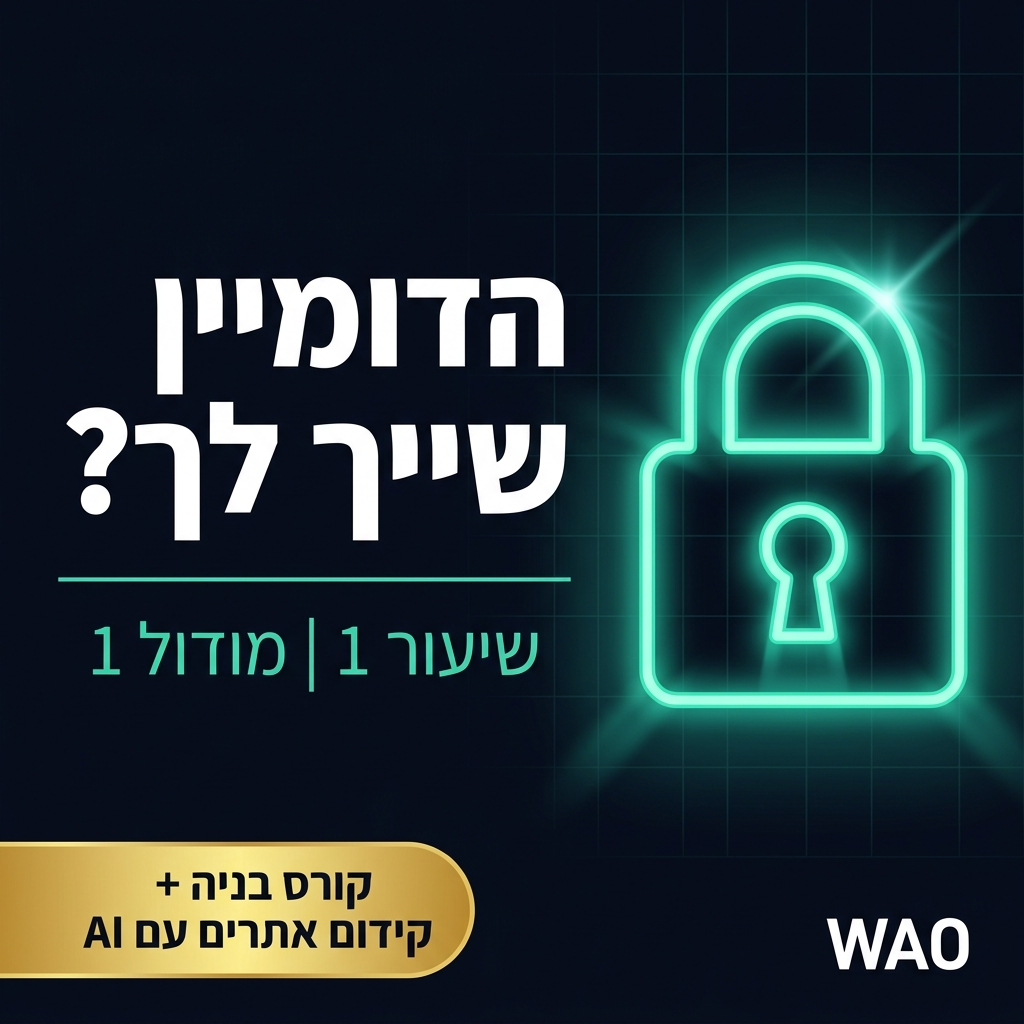
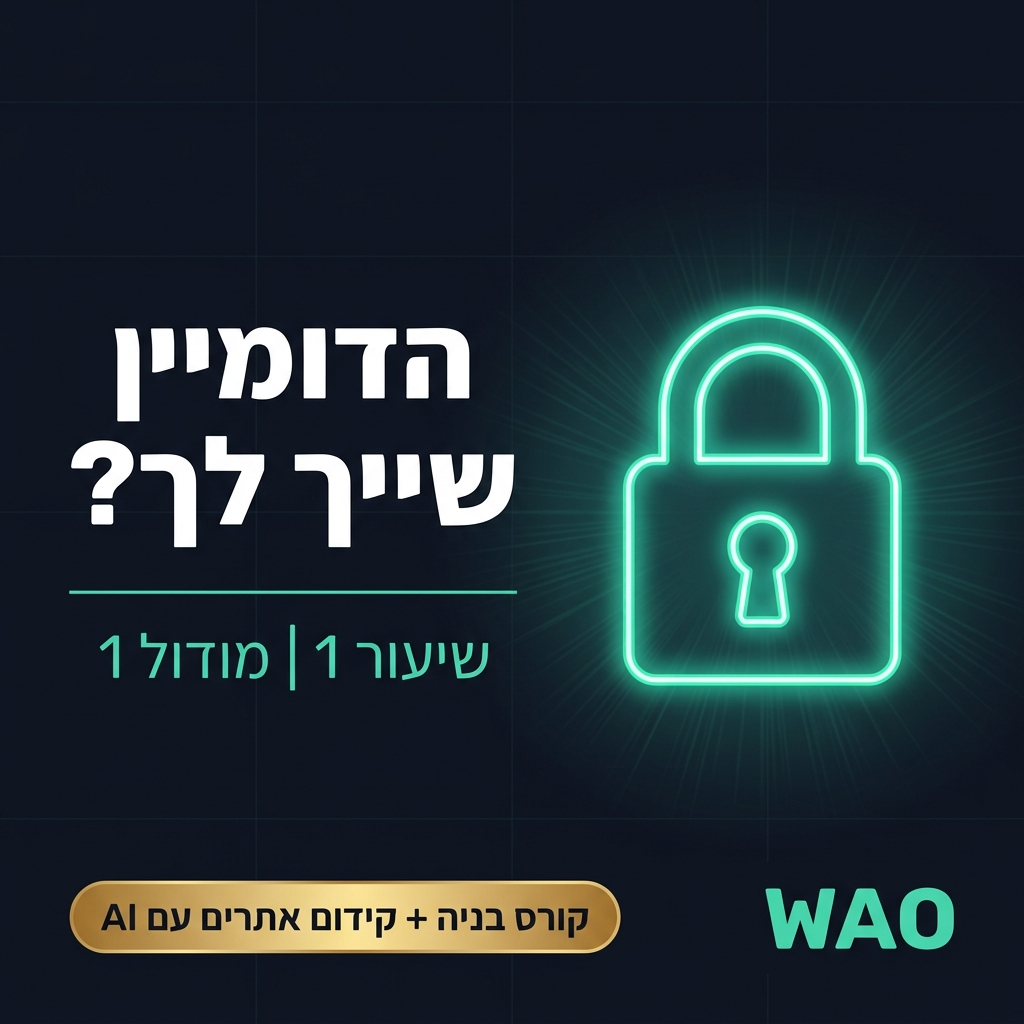
slides: fix overcrowded slides, teal WAO branding, L1-2 thumbnail
- L1-1: trim slides 2,3,6,7 to max 4 bullets; WAO heading -> h4 (teal)
- L1-2: trim slides 2,4; replace shituk->plain text; simplify kriteryonim label; WAO h4 (teal)
- wao-rtl.css: add h4 rule (teal #4ae3b5) for WAO title branding
- Thumbnails: AI-generated, teal WAO, consistent brand for lessons 1+2

Changed region(s): [[0.0625, 0.1875, 1.0, 0.7812], [0.0, 0.8125, 0.625, 0.9688], [0.75, 0.8438, 0.9688, 0.9688]]

diff --git a/docs/scripts/website-course/wao-rtl.css b/docs/scripts/website-course/wao-rtl.css
@@ -15,6 +15,7 @@ section {
 h1 { color: #4ae3b5; font-size: 48px; text-align: right; }
 h2 { color: #4ae3b5; font-size: 36px; text-align: right; }
 h3 { color: #ffd000; font-size: 28px; text-align: right; }
+h4 { color: #4ae3b5; font-size: 24px; text-align: right; font-weight: 600; }
 ul, ol { margin-right: 35px; margin-left: 0; text-align: right; }
 li { margin-bottom: 12px; }
 table { width: 100%; border-collapse: collapse; margin-top: 20px; background-color: #131620; }

diff --git a/docs/scripts/website-course/L1-1-domain.md b/docs/scripts/website-course/L1-1-domain.md
@@ -49,7 +49,7 @@ theme: wao-rtl
 
 ## שיעור 1: הדומיין — הכתובת הדיגיטלית שלך
 
-### WAO · מודול 1
+#### WAO · מודול 1
 
 <!--
 לפני שנה, לקוח שלי איבד את כל האתר שלו.
@@ -69,9 +69,8 @@ theme: wao-rtl
 
 - רוב בעלי העסקים מניחים שהאתר שייך להם
 - בפועל: מי שרשום על הדומיין — הוא הבעלים
-- מעצב שרשם את הדומיין על שמו? הוא הבעלים
-- חברת ניהול אתרים שרשמה את הדומיין? גם היא הבעלים
-- הפתרון הוא פשוט — אבל רק אם תדע עליו
+- מעצב שרשם על שמו? האתר שלו. חברת ניהול? גם היא.
+- זה קורה כל הזמן — ומגלים את זה מאוחר מדי
 
 <!--
 רוב בעלי עסקים חושבים שהאתר שלהם שייך להם.
@@ -94,10 +93,8 @@ theme: wao-rtl
 
 - **הדומיין = הכתובת הדיגיטלית של העסק שלך**
 - לדוגמה: `my-business.co.il`
-- הוא לא האתר עצמו — היא הכתובת שמובילה אליו
-- מישהו אחר לא יכול לגור בכתובת שלך
+- הוא לא האתר עצמו — הוא הכתובת שמובילה אליו
 - אתה שוכר אותו בתשלום שנתי (בדרך כלל ₪70–₪90)
-- אם לא מחדשים — הכתובת משתחררת לכולם
 
 <!--
 תחשוב על הדומיין כמו כתובת הרחוב של העסק שלך.
@@ -170,11 +167,9 @@ theme: wao-rtl
 ### הדבר הראשון שתעשה לפני שתמשיך:
 
 1. תפתח את הדפדפן עכשיו
-2. תיכנס לאחד מאתרי הרשמת הדומיינים:
-   - **GoDaddy.com**, **Namecheap.com**, או **box.co.il** (ישראלי, בעברית)
-3. תחפש את שם העסק שלך כדומיין
-4. תבדוק: האם `.co.il` פנוי? האם `.com` פנוי?
-5. **תרשום לעצמך מה מצאת** — בשיעור הבא תבחר ביניהם
+2. תיכנס ל-**GoDaddy.com**, **Namecheap.com**, או **box.co.il**
+3. תחפש את שם העסק שלך — תבדוק אם `.co.il` ו-`.com` פנויים
+4. **תרשום מה מצאת** — בשיעור הבא תבחר ביניהם
 
 > 💡 לא קונים עדיין. רק בודקים וּרשומים.
 
@@ -200,8 +195,7 @@ theme: wao-rtl
 - הדומיין = הכתובת הדיגיטלית שלך. לא האתר.
 - **הוא חייב להיות רשום על שמך. לא על שם מישהו אחר.**
 - .co.il לקהל ישראלי. .com אם יש גם חו"ל.
-- בדקת אם שם העסק שלך פנוי? מצוין.
-- לא בדקת עדיין? תחזור לשקופית הקודמת.
+- בדקת את הדומיין שלך? מצוין — שיעור 2 מחכה. לא בדקת? חזור לשקופית הקודמת.
 
 <!--
 הדומיין הוא הנכס הדיגיטלי הכי בסיסי שיש לעסק.

diff --git a/docs/scripts/website-course/L1-2-domain-naming.md b/docs/scripts/website-course/L1-2-domain-naming.md
@@ -15,7 +15,7 @@ pipeline: "Noa (proof) → marp --html preview → Eitan-Dev (render)"
 ## נכון לעסק שלך
 
 **קורס בניה + קידום אתרים בעידן ה-AI**
-מודול 1 | שיעור 2
+#### WAO · מודול 1 | שיעור 2
 
 <!--
 כבר יש לך שֵׁם בראש.
@@ -34,7 +34,6 @@ pipeline: "Noa (proof) → marp --html preview → Eitan-Dev (render)"
 2. **קצר** — 2–3 הברות אידיאלי, 4 קביל, 5 ומעלה בעיה.
 3. **עובר מבחן הרדיו** — שומעים ברדיו, יודעים לאיית.
 4. **ללא מקפים וּמספרים** — הם נשכחים וּמבלבלים.
-5. **מייצג את העסק** — לא גנרי, לא מטעה.
 
 <!--
 חמישה קריטריונים. זה הכל.
@@ -87,8 +86,6 @@ cohen-electric. cohen-electric. cohen-electric.
 **טעות 3: שם דומה למותג קיים**
 `waze-nav`, `amazon-il` — סיכון משפטי. תשאיר מרחק.
 
-> ⚠️ רישום על שם המעצב — דיברנו על זה בשיעור הקודם. הדומיין חייב להיות על שמך.
-
 <!--
 שלוש טעויות שחייבים להכיר.
 ראשונה: סימני מקף וּספרות. מישהו שומע את הדומיין ברדיו.
@@ -137,7 +134,7 @@ cohen-electric. cohen-electric. cohen-electric.
 3. תבדוק כל שם ב-GoDaddy, Namecheap, או Domains.co.il — האם פנוי?
 4. **תרשום לעצמך בדיוק 3 שמות שעוברים הכל וּפנויים.**
 
-> ⚠️ לא אחד. לא עשרה. שלושה. אחד הוא סיכון. עשרה הם שיתוק.
+> ⚠️ לא אחד — אחד הוא סיכון. לא עשרה — עשרה שמות קשה להחליט ביניהם. בדיוק שלושה.
 
 <!--
 תעצור את הסרטון עכשיו.
@@ -153,7 +150,7 @@ cohen-electric. cohen-electric. cohen-electric.
 
 ## מה לוקחים מהשיעור הזה
 
-- **5 קריטריונים:** מתגלגל, קצר, עובר רדיו, ללא מקפים וּמספרים, מייצג.
+- **5 דברים לבדוק:** מתגלגל, קצר, עובר רדיו, ללא מקפים וּמספרים, מייצג.
 - **3 טעויות לא לעשות:** מותג קיים, סיומת שנייה, רישום על שם אחר.
 - **הפרומפט מוכן** — תעתיק, תשתמש, תסנן.
 - **המשימה:** 3 מועמדים פנויים על השולחן. זהו.